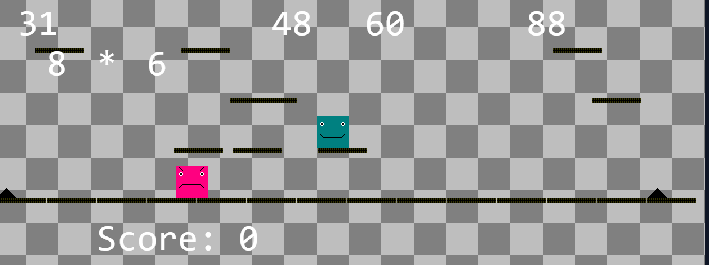
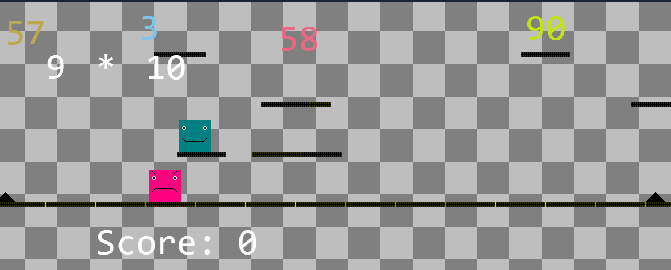
GITBOOK-146: change request with no subject merged in GitBook

diff --git a/design-and-development/2.2.8-cycle-8.md b/design-and-development/2.2.8-cycle-8.md
@@ -74,7 +74,7 @@ I struggled to get the win screen to work properly, but I realised that there wa
 
 ### Evidence
 
-![](../.gitbook/assets/image.png)
+![](<../.gitbook/assets/image (1).png>)
 
 The score is 0. I will hit a correct answer and it should change to 1.
 
@@ -86,6 +86,6 @@ And it has changed to 1, as I wanted.
 
 I have set the score to 9. When I hit the correct answer, the win screen will be displayed.
 
-![](<../.gitbook/assets/image (1).png>)
+![](<../.gitbook/assets/image (1) (3).png>)
 
 Here is the current win screen.

diff --git a/design-and-development/2.2.9-cycle-9.md b/design-and-development/2.2.9-cycle-9.md
@@ -65,3 +65,7 @@ catch(err) {
 | 3    | Run original code for correct answer          | Hitting the correct answer when in a cluster should take you to the next question or win screen | It takes you to the game over screen instead | Fail      |
 
 ### Evidence
+
+![](../.gitbook/assets/image.png)
+
+I have made it so that the answers can spawn at mildly varying heights. This should lessen the chance of impossible levels. I have also added random colours for the answers so you can distinguish between them better.
